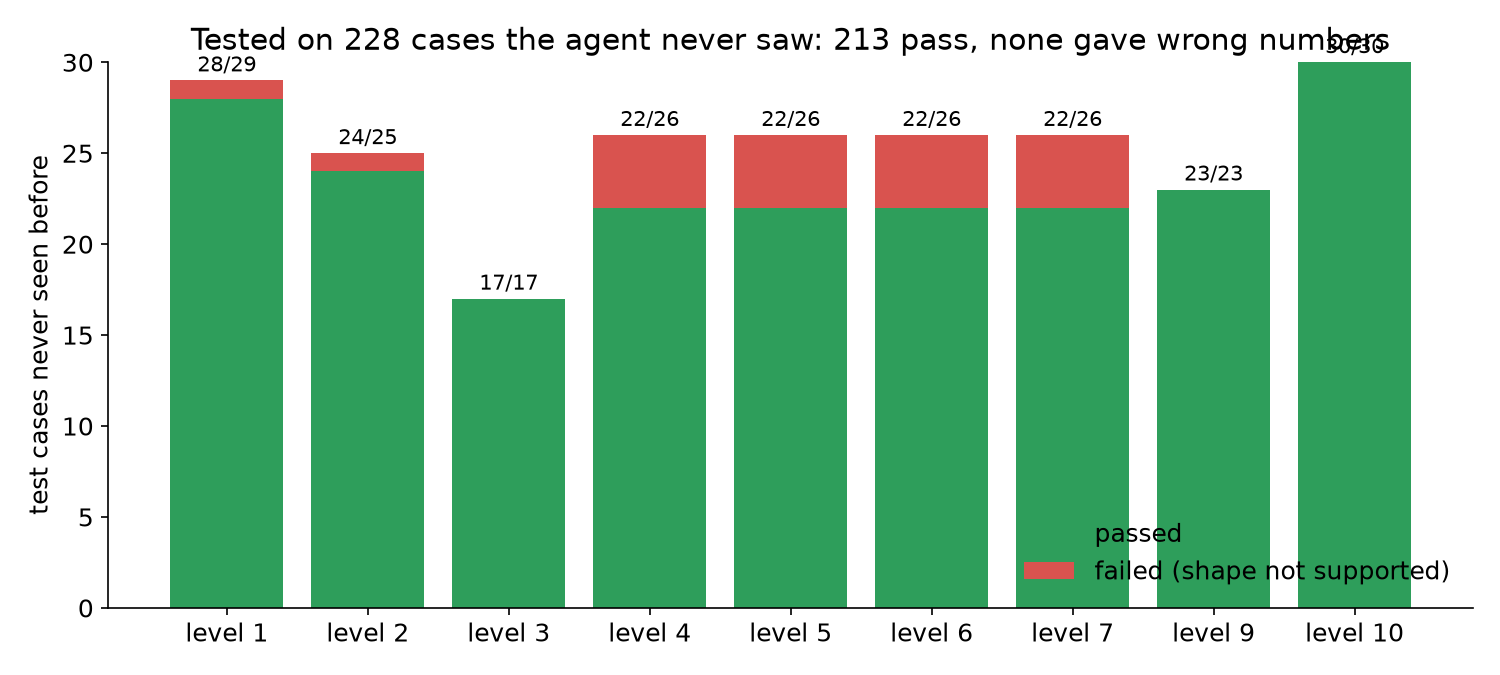
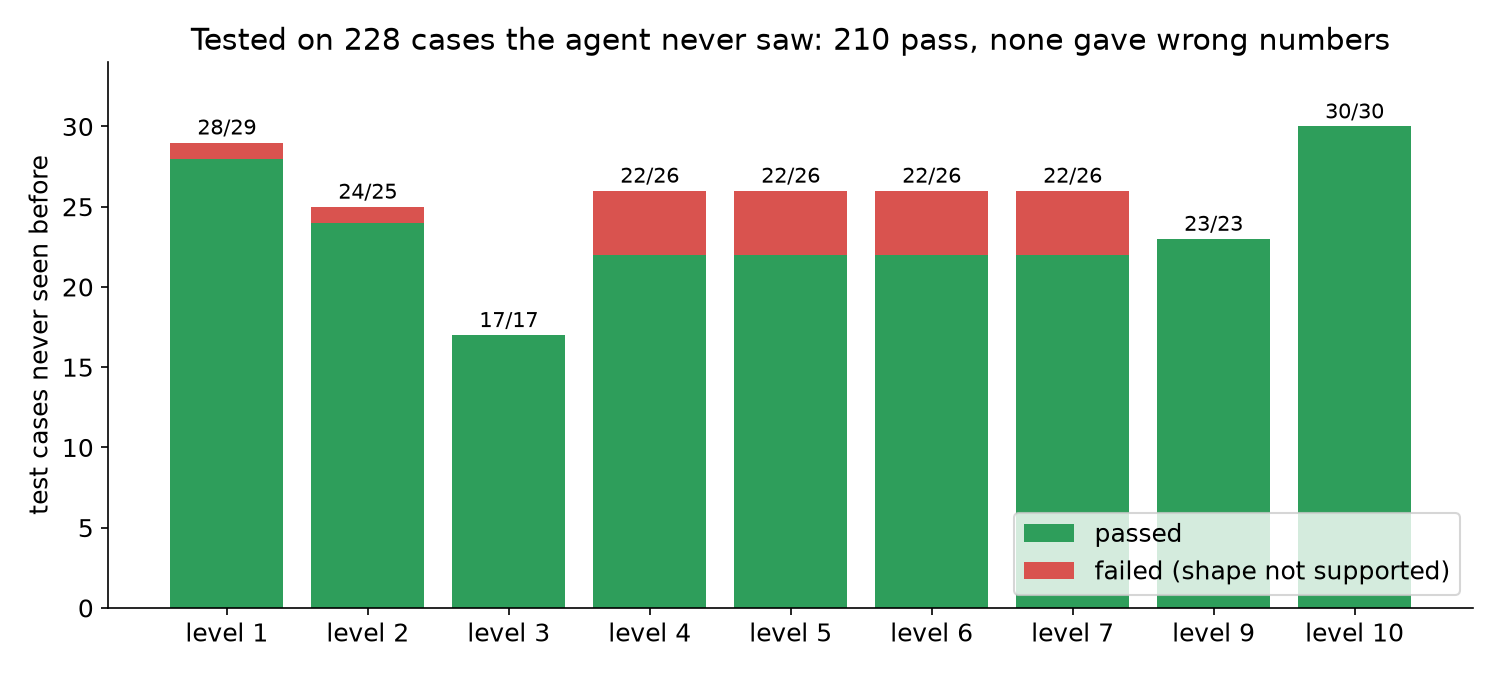
Fix issues from an independent audit
- Held-out total is 210/228 (the per-level counts never summed to 213); chart and RESULTS corrected.
- Level 2's description said the transpose crosses partitions; the reference keeps the partition
  axis and transposes the free-axis matrix in each row. The description now states the mapping.
- Hardware-hazard warnings are never dropped by the 3-warning display cap.
- holdout_check fails a case on a hardware hazard (as grading does) and deletes an old result file
  before each level, so a timeout cannot report a previous run.

diff --git a/projects/20-kernel-agent/nkibench.py b/projects/20-kernel-agent/nkibench.py
@@ -287,8 +287,8 @@ level(1, "average pooling 2D", "tensor_avgpool_kernel",
      label=lambda sp: f"C,H,W={sp['shape']} pool={sp['pool_size']}")
 
 level(2, "2D transpose", "tensor_transpose2D_kernel_",
-     "layout: a transpose has to cross partitions, and the partition axis is the constrained "
-     "one",
+     "layout: transpose the F1 x F2 matrix held in each partition row's FREE axis; the partition "
+     "axis is untouched (y[p, j*F1 + i] = x[p, i*F2 + j])",
      "the first real one, and it is NOT about compute. A naive transpose moves tiny pieces "
      "and pays a per-transfer issue cost, so the cost is the NUMBER of transfers rather than "
      "the number of bytes. 'It moves a lot of data' is a misdiagnosis here.",
@@ -725,7 +725,10 @@ def simulate_and_count(kernel, args):
             msg = str(w.message).split(". ")[0]
             if msg not in seen:
                 seen.append(msg)
-        counter["warnings"] = seen[:3]
+        # every hardware hazard is kept; only the other warnings are capped (audit: a hazard listed
+        # fourth was silently dropped)
+        hazards = [w for w in seen if "incorrect results on hardware" in w]
+        counter["warnings"] = hazards + [w for w in seen if w not in hazards][:3]
     finally:
         nisa.dma_copy = original
     return out, counter

diff --git a/projects/20-kernel-agent/holdout_check.py b/projects/20-kernel-agent/holdout_check.py
@@ -246,6 +246,9 @@ def run_case(kernel, spec, level_n, args):
     m = nb.describe_mismatch(got, want, TOL)
     if m is None:
         m = nb.check_inputs_untouched(before, args)
+    if m is None:   # a hardware hazard fails the case even when the CPU numbers match (as in grading)
+        hz = [w for w in rec["warnings"] if "incorrect results on hardware" in w]
+        m = f"CORRECT ON CPU BUT WRONG ON HARDWARE: {hz[0]}" if hz else None
     rec["ok"] = m is None
     rec["msg"] = m
     if counted.get("bytes"):
@@ -373,6 +376,8 @@ def main():
         jpath = os.path.join(a.workdir, f"level{n:02d}.json")
         print(f"=== level {n}", flush=True)
         cmd = [sys.executable, os.path.abspath(__file__), "--level", str(n), "--json", jpath]
+        if os.path.exists(jpath):   # never report an older run's file after a timeout or a crash
+            os.remove(jpath)
         try:
             subprocess.run(cmd, timeout=a.timeout, check=False)
         except subprocess.TimeoutExpired:

diff --git a/projects/20-kernel-agent/analysis/make_charts.py b/projects/20-kernel-agent/analysis/make_charts.py
@@ -96,7 +96,8 @@ ax.bar(names, passed, color=GREEN, label="passed")
 ax.bar(names, failed, bottom=passed, color=RED, label="failed (shape not supported)")
 for i, (p, t) in enumerate(hold.values()):
     ax.text(i, t + 0.5, f"{p}/{t}", ha="center", fontsize=10)
-ax.set_ylabel("test cases never seen before"); ax.legend(frameon=False, loc="lower right")
-ax.set_title("Tested on 228 cases the agent never saw: 213 pass, none gave wrong numbers")
+ax.set_ylim(0, max(t for _, t in hold.values()) + 4)
+ax.set_ylabel("test cases never seen before"); ax.legend(frameon=True, loc="lower right")
+ax.set_title("Tested on 228 cases the agent never saw: 210 pass, none gave wrong numbers")
 save(fig, "chart_5_unseen.png")
 print("charts written to", os.path.abspath(OUT))

diff --git a/projects/20-kernel-agent/RESULTS.md b/projects/20-kernel-agent/RESULTS.md
@@ -73,7 +73,7 @@ data, extreme values.
 
 ![Unseen tests](assets/chart_5_unseen.png)
 
-213 pass, and **not a single one gave wrong numbers**. Every failure was a size the program simply doesn't
+210 pass, and **not a single one gave wrong numbers**. Every failure was a size the program simply doesn't
 handle (the matrix programs only work when sizes are exact multiples of 128 or 512).
 
 **Run on the real chip** (`device_check.py`): the level 3, 4, 7, 9 and 10 programs ran on the actual Trainium2
